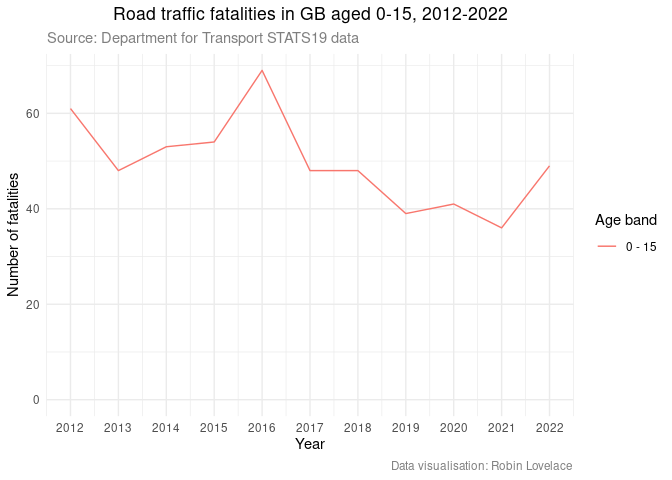
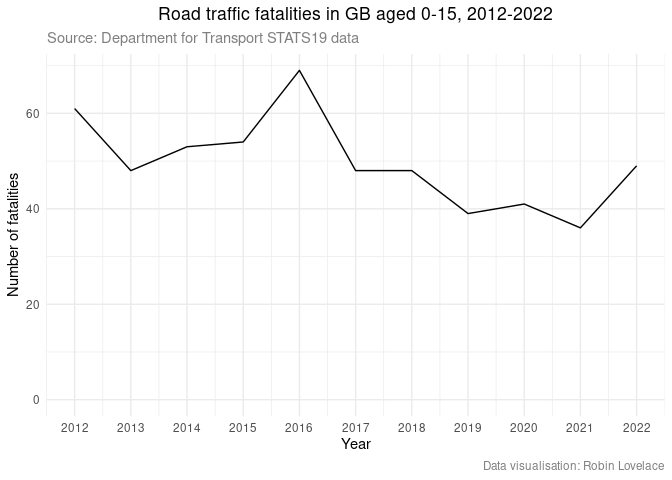
Update final 2 graphs

diff --git a/README.md b/README.md
@@ -252,9 +252,9 @@ fatalities_by_age = fatalities |>
 ``` r
 fatalities_by_age |>
   ggplot(aes(accident_year, n, group = age_band)) +
-  geom_line(aes(colour = age_band)) +
+  geom_line() +
   theme_minimal() +
-  labs(x = "Year", y = "Number of fatalities", colour = "Age band") +
+  labs(x = "Year", y = "Number of fatalities") +
   scale_x_continuous(breaks = seq(2012, 2022, 1)) +
   # Y axis starting at 0:
   scale_y_continuous(limits = c(0, NA))  +
@@ -292,12 +292,12 @@ fatalities_by_age = fatalities |>
 ``` r
 fatalities_by_age |>
   ggplot(aes(accident_year, n, group = age_band)) +
-  geom_line(aes(colour = age_band)) +
+  geom_line() +
   theme_minimal() +
-  labs(x = "Year", y = "Number of fatalities", colour = "Age band") +
+  labs(x = "Year", y = "Number of fatalities") +
   scale_x_continuous(breaks = seq(2012, 2022, 1)) +
   # Y axis starting at 0:
-  scale_y_continuous(limits = c(0, NA)) +
+  scale_y_continuous(limits = c(0, NA))  +
   # Add graph title:
   ggtitle("Road traffic fatalities in GB aged 16-25, 2012-2022") +
   # Add subtitle:
